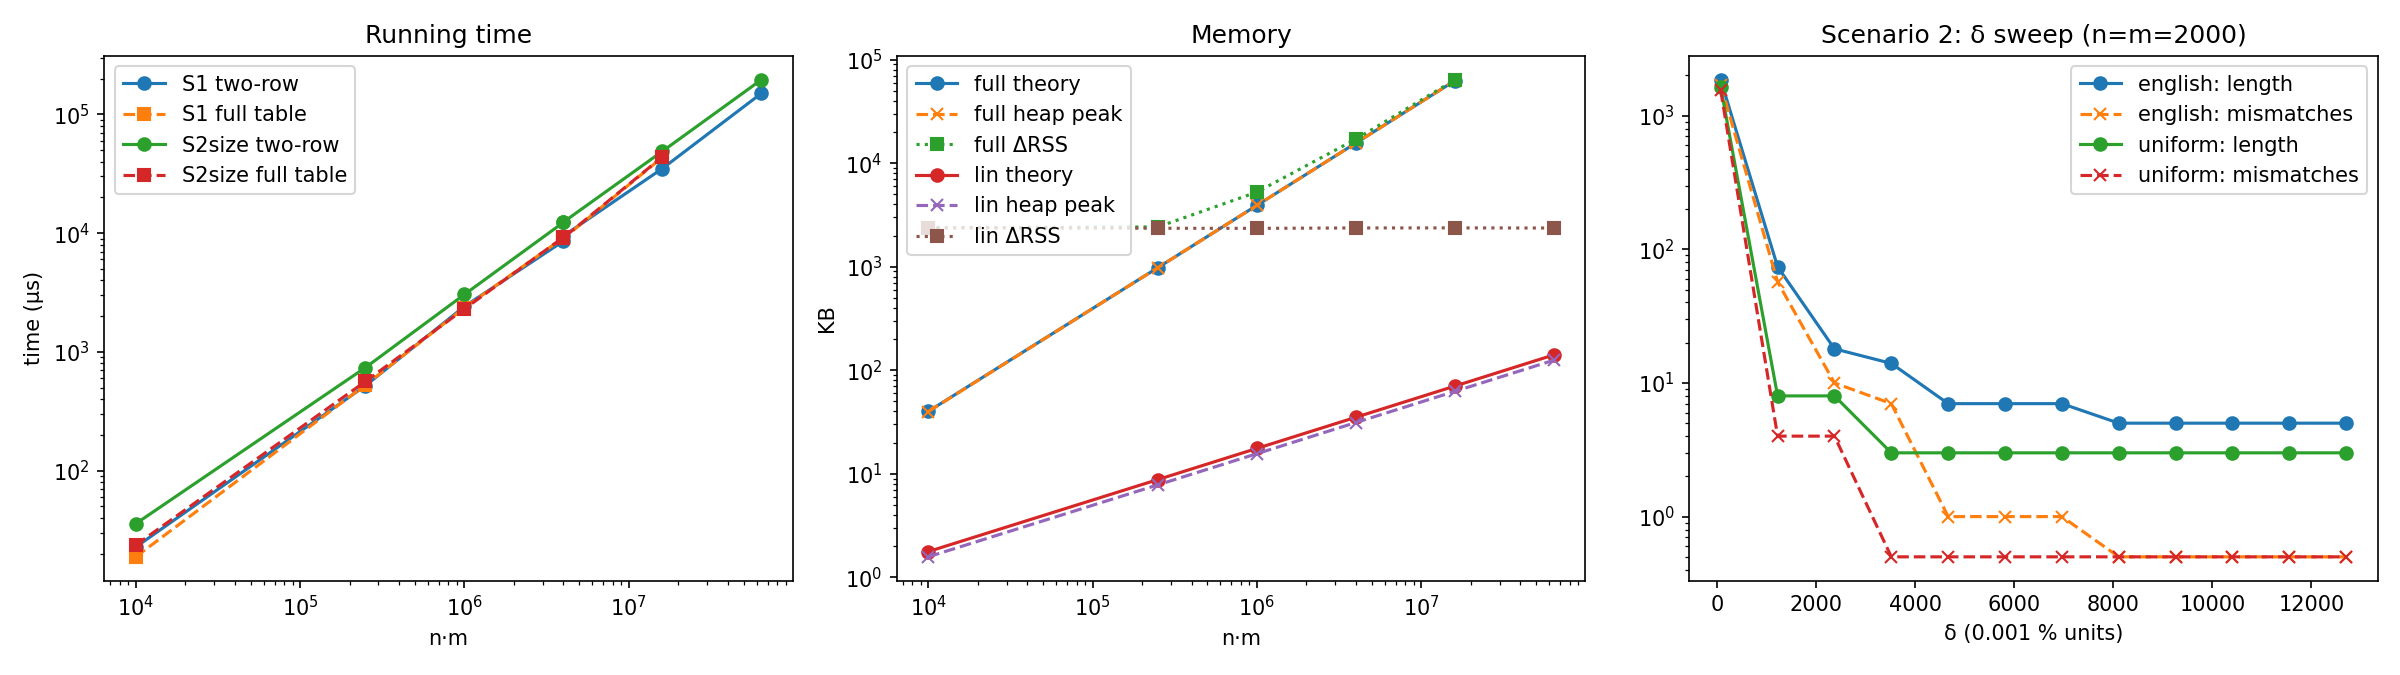
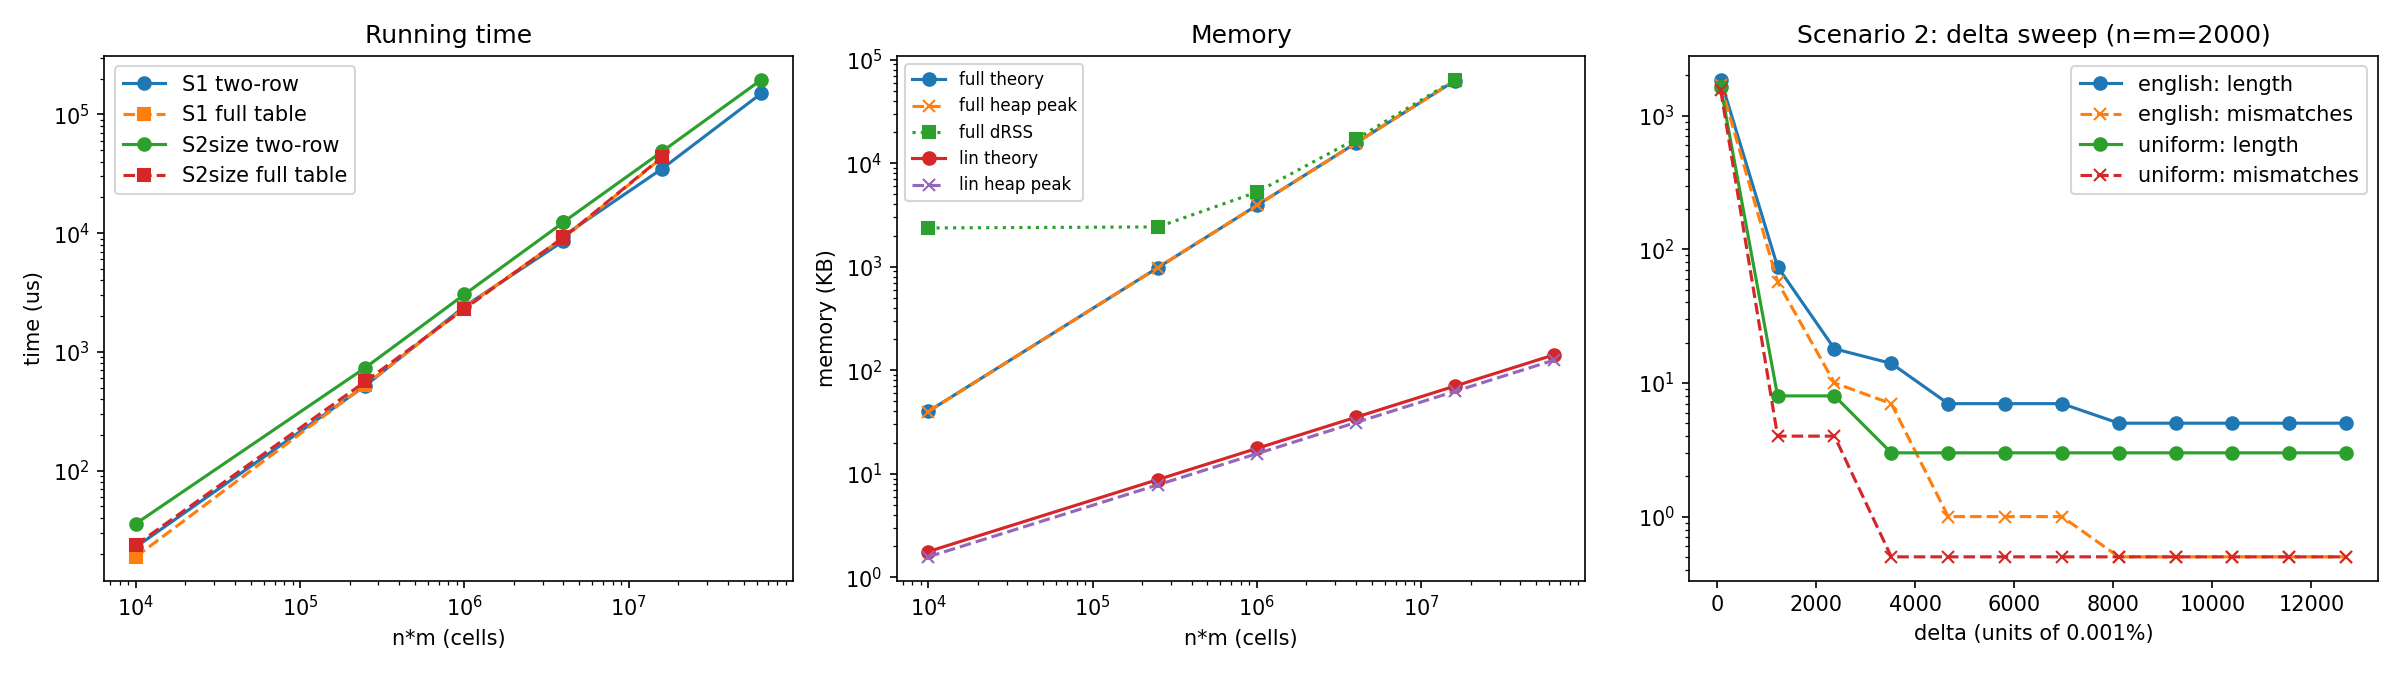
Revise report

diff --git a/problem1.cpp b/problem1.cpp
@@ -1,14 +1,19 @@
-// problem2.cpp  —  Largest all-zero square sub-matrix (iterative DP)
-// Build:  g++ -O2 -std=c++17 problem2.cpp -o p2
-// Run all experiments:   ./p2 > results_p2.csv
-// Single run (memory):   ./p2 <m> <n> <p>
+// problem1.cpp — Weighted approximate common substring (no gaps), iterative DP
+// Build:  g++ -O2 -std=c++17 problem1.cpp -o p1
+// Run all experiments:  ./p1 > results_p1.csv     (demo + self-test go to stderr)
+// Memory (one process per run):  ./p1 mem <n> <m> <full|lin>
+#include <array>
+#include <algorithm>
+#include <chrono>
+#include <climits>
+#include <cmath>
 #include <cstdint>
 #include <cstdio>
 #include <cstdlib>
-#include <vector>
+#include <cstring>
 #include <random>
-#include <chrono>
-#include <algorithm>
+#include <string>
+#include <vector>
 #if defined(__unix__) || defined(__APPLE__)
 #include <sys/resource.h>
 #endif
@@ -18,7 +23,7 @@
 #include <fstream>
 #include <unistd.h>
 static std::size_t g_heapCur = 0, g_heapPeak = 0;
-// Count every heap allocation (std::vector uses this)
+// Count every heap allocation (std::vector, std::string use this)
 void* operator new(std::size_t sz) {
     void* p = std::malloc(sz + 16);
     if (!p) throw std::bad_alloc();
@@ -42,138 +47,243 @@ long currentRssKB() {   // Linux: resident memory RIGHT NOW (not the historical 
     return res * (sysconf(_SC_PAGESIZE) / 1024);
 }
 
-using Matrix = std::vector<uint8_t>;          // row-major, B[i*n + j], 1 byte per cell
 
-struct Result { int k; int row; int col; };    // side length + top-left corner
 
-// ---------- synthetic data: each cell is 1 with probability p ----------
-Matrix generate(int m, int n, double p, uint64_t seed) {
-    std::mt19937_64 rng(seed);
-    std::bernoulli_distribution one(p);
-    Matrix B((size_t)m * n);
-    for (size_t t = 0; t < B.size(); ++t) B[t] = one(rng) ? 1 : 0;
-    return B;
+using Weights = std::array<int, 26>;
+
+// Lewand English letter frequencies in units of 0.001 %  (E = 12.702 % -> 12702).
+// Integers keep w_l exactly proportional to frequency and all scores exact.
+const int FREQ[26] = {
+    8167, 1492, 2782, 4253, 12702, 2228, 2015, 6094, 6966, 153, 772, 4025, 2406,  // A-M
+    6749, 7507, 1929,   95,  5987, 6327, 9056, 2758,  978, 2360, 150, 1974,   74  // N-Z
+};
+
+struct Result {
+    int score;   // optimal score (0 = empty substring)
+    int s1, s2;  // 0-indexed start positions in X and Y
+    int len;     // common length of both substrings
+};
+
+inline int sc(char a, char b, const Weights& w, int delta) {
+    return a == b ? w[a - 'A'] : -delta;
 }
 
-// ---------- DP: D[i][j] = side of largest zero square with bottom-right (i,j) ----------
-// Only two rows of D are kept (O(n) extra space). Column 0 is a sentinel (= 0),
-// and the initial 'prev' row of zeros is the sentinel row above row 0.
-Result largestZeroSquare(const Matrix& B, int m, int n) {
-    std::vector<int> prev(n + 1, 0), cur(n + 1, 0);
-    int best = 0, bi = -1, bj = -1;
-    for (int i = 0; i < m; ++i) {
-        cur[0] = 0;
-        const uint8_t* row = &B[(size_t)i * n];
-        for (int j = 1; j <= n; ++j) {
-            if (row[j - 1]) {
-                cur[j] = 0;
-            } else {
-                cur[j] = 1 + std::min(prev[j], std::min(cur[j - 1], prev[j - 1]));
-                if (cur[j] > best) { best = cur[j]; bi = i; bj = j - 1; }
+// ---------------- DP with full table + traceback extraction ----------------
+// D[i][j] = best score of a pair of equal-length substrings ENDING at X[i-1], Y[j-1]
+// D[i][j] = max(0, D[i-1][j-1] + s(X[i-1], Y[j-1])),  D[0][*] = D[*][0] = 0
+Result solveFull(const std::string& X, const std::string& Y, const Weights& w, int delta) {
+    const int n = (int)X.size(), m = (int)Y.size();
+    std::vector<int> D((size_t)(n + 1) * (m + 1), 0);
+    auto at = [&](int i, int j) -> int& { return D[(size_t)i * (m + 1) + j]; };
+    int best = 0, bi = 0, bj = 0;
+    for (int i = 1; i <= n; ++i)
+        for (int j = 1; j <= m; ++j) {
+            int v = at(i - 1, j - 1) + sc(X[i - 1], Y[j - 1], w, delta);
+            if (v < 0) v = 0;
+            at(i, j) = v;
+            if (v > best) { best = v; bi = i; bj = j; }
+        }
+    // Extraction: walk back along the diagonal while D > 0 (iterative, no recursion)
+    int len = 0, i = bi, j = bj;
+    while (i > 0 && j > 0 && at(i, j) > 0) { ++len; --i; --j; }
+    return {best, bi - len, bj - len, len};
+}
+
+// ---------------- Space-optimized DP: two rows + run length ----------------
+// L[j] = length of the run ending at (i,j); allows extraction without the full table.
+Result solveLinear(const std::string& X, const std::string& Y, const Weights& w, int delta) {
+    const int n = (int)X.size(), m = (int)Y.size();
+    std::vector<int> pD(m + 1, 0), cD(m + 1, 0), pL(m + 1, 0), cL(m + 1, 0);
+    int best = 0, bi = 0, bj = 0, blen = 0;
+    for (int i = 1; i <= n; ++i) {
+        cD[0] = 0; cL[0] = 0;
+        for (int j = 1; j <= m; ++j) {
+            int v = pD[j - 1] + sc(X[i - 1], Y[j - 1], w, delta);
+            if (v > 0) { cD[j] = v; cL[j] = pL[j - 1] + 1; }
+            else       { cD[j] = 0; cL[j] = 0; }
+            if (v > best) { best = v; bi = i; bj = j; blen = cL[j]; }
+        }
+        std::swap(pD, cD); std::swap(pL, cL);
+    }
+    return {best, bi - blen, bj - blen, blen};
+}
+
+// ---------------- Brute force O(n*m*min(n,m)) for verification ----------------
+Result bruteForce(const std::string& X, const std::string& Y, const Weights& w, int delta) {
+    Result r{0, 0, 0, 0};
+    const int n = (int)X.size(), m = (int)Y.size();
+    for (int a = 0; a < n; ++a)
+        for (int b = 0; b < m; ++b) {
+            int s = 0;
+            for (int L = 1; a + L <= n && b + L <= m; ++L) {
+                s += sc(X[a + L - 1], Y[b + L - 1], w, delta);
+                if (s > r.score) r = {s, a, b, L};
             }
         }
-        std::swap(prev, cur);                 // O(1) pointer swap
-    }
-    if (best == 0) return {0, -1, -1};
-    // Solution extraction: bottom-right (bi,bj) and side best -> top-left corner
-    return {best, bi - best + 1, bj - best + 1};
+    return r;
 }
 
-// ---------- independent verifier using 2D prefix sums ----------
-// (1) the reported square is inside B and all zeros, (2) no (k+1)x(k+1) zero square exists.
-bool verify(const Matrix& B, int m, int n, const Result& r) {
-    std::vector<int> S((size_t)(m + 1) * (n + 1), 0);
-    auto at = [&](int i, int j) -> int& { return S[(size_t)i * (n + 1) + j]; };
-    for (int i = 1; i <= m; ++i)
-        for (int j = 1; j <= n; ++j)
-            at(i, j) = B[(size_t)(i - 1) * n + (j - 1)] + at(i - 1, j) + at(i, j - 1) - at(i - 1, j - 1);
-    auto sum = [&](int r0, int c0, int k) {
-        return at(r0 + k, c0 + k) - at(r0, c0 + k) - at(r0 + k, c0) + at(r0, c0);
-    };
-    if (r.k > 0) {
-        if (r.row < 0 || r.col < 0 || r.row + r.k > m || r.col + r.k > n) return false;
-        if (sum(r.row, r.col, r.k) != 0) return false;
-    }
-    int K = r.k + 1;
-    if (K <= std::min(m, n))
-        for (int r0 = 0; r0 + K <= m; ++r0)
-            for (int c0 = 0; c0 + K <= n; ++c0)
-                if (sum(r0, c0, K) == 0) return false;
-    return true;
+int scoreOf(const std::string& X, const std::string& Y, int s1, int s2, int len,
+            const Weights& w, int delta) {
+    int s = 0;
+    for (int k = 0; k < len; ++k) s += sc(X[s1 + k], Y[s2 + k], w, delta);
+    return s;
+}
+int mismatches(const std::string& X, const std::string& Y, int s1, int s2, int len) {
+    int c = 0;
+    for (int k = 0; k < len; ++k) c += (X[s1 + k] != Y[s2 + k]);
+    return c;
 }
 
-// ---------- measurement helpers ----------
+// ---------------- Synthetic data ----------------
+std::string genAlpha(int n, int k, std::mt19937_64& rng) {      // uniform over first k letters
+    std::uniform_int_distribution<int> d(0, k - 1);
+    std::string s(n, 'A');
+    for (auto& c : s) c = char('A' + d(rng));
+    return s;
+}
+std::string genEnglish(int n, std::mt19937_64& rng) {           // English letter distribution
+    std::discrete_distribution<int> d(FREQ, FREQ + 26);
+    std::string s(n, 'A');
+    for (auto& c : s) c = char('A' + d(rng));
+    return s;
+}
+
+// ---------------- Scenarios ----------------
+Weights scenario1() { Weights w; w.fill(1); return w; }          // delta = 10
+Weights scenario2() { Weights w; for (int l = 0; l < 26; ++l) w[l] = FREQ[l]; return w; }
+int deltaS2(int t) {  // t = 0..11 ; t = 1..10 are the 10 intermediate values
+    const int wmin = *std::min_element(FREQ, FREQ + 26), wmax = *std::max_element(FREQ, FREQ + 26);
+    return (int)std::lround(wmin + t * (wmax - wmin) / 11.0);
+}
+
+// ---------------- Measurement ----------------
+volatile int g_sink;
+template <class F>
+double timeIt(F f) {                       // avg microseconds; >= 200 ms total and >= 3 reps
+    using clk = std::chrono::steady_clock;
+    f();                                   // warm-up
+    int reps = 0; double total = 0;
+    auto start = clk::now();
+    do { f(); ++reps; total = std::chrono::duration<double, std::micro>(clk::now() - start).count(); }
+    while (total < 200000.0 || reps < 3);
+    return total / reps;
+}
 long peakRssKB() {
 #if defined(__APPLE__)
-    struct rusage ru; getrusage(RUSAGE_SELF, &ru); return ru.ru_maxrss / 1024;  // bytes on macOS
+    struct rusage ru; getrusage(RUSAGE_SELF, &ru); return ru.ru_maxrss / 1024;
 #elif defined(__unix__)
-    struct rusage ru; getrusage(RUSAGE_SELF, &ru); return ru.ru_maxrss;         // KB on Linux
+    struct rusage ru; getrusage(RUSAGE_SELF, &ru); return ru.ru_maxrss;
 #else
     return -1;
 #endif
 }
-
-// Repeat until >= 200 ms total and >= 5 reps, return average microseconds per run
-double timeIt(const Matrix& B, int m, int n, Result& out, int& reps) {
-    using clk = std::chrono::steady_clock;
-    out = largestZeroSquare(B, m, n);          // warm-up (caches)
-    reps = 0;
-    double total = 0.0;
-    auto start = clk::now();
-    do {
-        out = largestZeroSquare(B, m, n);
-        ++reps;
-        total = std::chrono::duration<double, std::micro>(clk::now() - start).count();
-    } while (total < 200000.0 || reps < 5);
-    return total / reps;
+size_t theoryFull(int n, int m) { return (size_t)(n + 1) * (m + 1) * sizeof(int) + n + m; }
+size_t theoryLin(int n, int m)  { return 4 * (size_t)(m + 1) * sizeof(int) + n + m; }
+std::string show(const std::string& s, int st, int len) {
+    if (len == 0) return "-";
+    return len <= 30 ? s.substr(st, len) : s.substr(st, 30) + "...";
 }
 
-void runOne(int m, int n, double p, uint64_t seed) {
-    long rssBefore = currentRssKB();
-    std::size_t heapBase = g_heapCur; resetHeapPeak();
-    Matrix B = generate(m, n, p, seed);
-    Result r; int reps;
-    double us = timeIt(B, m, n, r, reps);
-    std::size_t heapPeak = g_heapPeak - heapBase;      // B + two DP rows
-    long rssAfter = currentRssKB();
-    size_t theory = (size_t)m * n * sizeof(uint8_t) + 2 * (size_t)(n + 1) * sizeof(int);
-    bool ok = verify(B, m, n, r);
-    std::printf("%d,%d,%.3f,%d,%d,%d,%.3f,%d,%zu,%zu,%ld,%ld,%s\n",
-                m, n, p, r.k, r.row, r.col, us, reps, theory, heapPeak,
-                rssBefore, rssAfter, ok ? "yes" : "NO");
-}
-
-// ---------- hand-made test with known answer (k=3, top-left (0,1)) ----------
-void demo() {
-    const int m = 5, n = 6;
-    Matrix B = { 1,0,0,0,1,0,
-                 0,0,0,0,1,0,
-                 1,0,0,0,0,1,
-                 0,1,0,0,0,0,
-                 0,0,1,0,0,1 };
-    Result r = largestZeroSquare(B, m, n);
-    std::fprintf(stderr, "[demo] k=%d top-left=(%d,%d) verified=%s\n",
-                 r.k, r.row, r.col, verify(B, m, n, r) ? "yes" : "NO");
-    for (int i = r.row; i < r.row + r.k; ++i) {
-        std::fprintf(stderr, "       ");
-        for (int j = r.col; j < r.col + r.k; ++j) std::fprintf(stderr, "%d ", B[i * n + j]);
-        std::fprintf(stderr, "\n");
+void runCase(const char* exp, const char* dist, const std::string& X, const std::string& Y,
+             const Weights& w, int delta, int t) {
+    const int n = (int)X.size(), m = (int)Y.size();
+    if ((long long)*std::max_element(w.begin(), w.end()) * std::min(n, m) > INT_MAX) {
+        std::fprintf(stderr, "score could overflow int\n"); std::exit(1);
     }
+    const bool doFull = (size_t)n * m <= 16000000ULL;            // full table <= 64 MB
+    Result r = solveLinear(X, Y, w, delta);
+    double tL = timeIt([&] { g_sink = solveLinear(X, Y, w, delta).score; });
+    double tF = -1; bool same = true;
+    if (doFull) {
+        Result f = solveFull(X, Y, w, delta);
+        same = f.score == r.score && f.s1 == r.s1 && f.s2 == r.s2 && f.len == r.len;
+        tF = timeIt([&] { g_sink = solveFull(X, Y, w, delta).score; });
+    }
+    bool ok = scoreOf(X, Y, r.s1, r.s2, r.len, w, delta) == r.score;
+    std::printf("%s,%s,%d,%d,%d,%d,%d,%d,%d,%d,%d,%.2f,%.2f,%zu,%zu,%s,%s,%s,%s\n",
+                exp, dist, n, m, delta, t, r.score, r.len,
+                r.len ? r.s1 + 1 : 0, r.len ? r.s2 + 1 : 0,           // 1-indexed like the handout
+                mismatches(X, Y, r.s1, r.s2, r.len), tF, tL,
+                doFull ? theoryFull(n, m) : 0, theoryLin(n, m),
+                doFull ? (same ? "yes" : "NO") : "n/a", ok ? "yes" : "NO",
+                show(X, r.s1, r.len).c_str(), show(Y, r.s2, r.len).c_str());
+}
+
+// ---------------- Correctness checks ----------------
+void demo() {
+    const std::string X = "ABCAABCAA", Y = "ABBCAACCBBBBBB";
+    Weights w2 = scenario2(); int d = deltaS2(5);
+    std::fprintf(stderr, "[demo] handout alignment %s / %s : 2*w_C + 2*w_A - delta = 2*%d + 2*%d - %d = %d\n",
+                 X.substr(2, 5).c_str(), Y.substr(3, 5).c_str(), w2['C' - 'A'], w2['A' - 'A'], d,
+                 scoreOf(X, Y, 2, 3, 5, w2, d));
+    Result a = solveFull(X, Y, scenario1(), 10), b = solveFull(X, Y, w2, d);
+    std::fprintf(stderr, "[demo] Scenario 1 optimum: score=%d  %s (pos %d) / %s (pos %d)\n",
+                 a.score, X.substr(a.s1, a.len).c_str(), a.s1 + 1, Y.substr(a.s2, a.len).c_str(), a.s2 + 1);
+    std::fprintf(stderr, "[demo] Scenario 2 (delta=%d) optimum: score=%d  %s (pos %d) / %s (pos %d)\n",
+                 d, b.score, X.substr(b.s1, b.len).c_str(), b.s1 + 1, Y.substr(b.s2, b.len).c_str(), b.s2 + 1);
+}
+bool selfTest() {
+    std::mt19937_64 rng(7);
+    int fails = 0;
+    for (int it = 0; it < 500; ++it) {
+        int n = 1 + (int)(rng() % 60), m = 1 + (int)(rng() % 60);
+        bool smallAlpha = it % 2;                          // 3-letter alphabet -> long runs w/ mismatches
+        std::string X = smallAlpha ? genAlpha(n, 3, rng) : genEnglish(n, rng);
+        std::string Y = smallAlpha ? genAlpha(m, 3, rng) : genEnglish(m, rng);
+        Weights w; int delta;
+        if (it % 4 < 2) { w = scenario1(); delta = 10; }
+        else            { w = scenario2(); delta = deltaS2((int)(rng() % 12)); }
+        Result b = bruteForce(X, Y, w, delta), f = solveFull(X, Y, w, delta), l = solveLinear(X, Y, w, delta);
+        bool ok = b.score == f.score && f.score == l.score && f.s1 == l.s1 && f.s2 == l.s2 &&
+                  f.len == l.len && scoreOf(X, Y, f.s1, f.s2, f.len, w, delta) == f.score;
+        if (!ok) ++fails;
+    }
+    std::fprintf(stderr, "[self-test] 500 random cases vs brute force: %s (%d failures)\n",
+                 fails ? "FAILED" : "all passed", fails);
+    return fails == 0;
 }
 
 int main(int argc, char** argv) {
-    if (argc == 4) {                           // single run -> clean per-process memory
-        runOne(std::atoi(argv[1]), std::atoi(argv[2]), std::atof(argv[3]), 20261103ULL);
+    if (argc == 5 && std::strcmp(argv[1], "mem") == 0) {
+        int n = std::atoi(argv[2]), m = std::atoi(argv[3]);
+        bool full = std::strcmp(argv[4], "full") == 0;
+        std::mt19937_64 rng(1);
+        std::string X = genEnglish(n, rng), Y = genEnglish(m, rng);
+        long rssBefore = currentRssKB();
+        std::size_t heapBase = g_heapCur; resetHeapPeak();
+        g_sink = full ? solveFull(X, Y, scenario1(), 10).score
+                      : solveLinear(X, Y, scenario1(), 10).score;
+        std::size_t heapPeak = g_heapPeak - heapBase;  // DP arrays only
+        long rssPeak = peakRssKB();
+        std::printf("%d,%d,%s,%zu,%zu,%ld,%ld\n", n, m, argv[4],
+                    full ? theoryFull(n, m) : theoryLin(n, m), heapPeak, rssBefore, rssPeak);
         return 0;
     }
-    demo();                                    // goes to stderr, CSV stays clean
-    std::printf("m,n,p,k,top_row,top_col,avg_time_us,reps,theory_bytes,heap_peak_bytes,"
-                "rss_before_kb,rss_after_kb,verified\n");
-    const int sizes[5][2] = {{10,10},{10,100},{10,1000},{100,1000},{1000,1000}};
-    const double dens[3] = {0.5, 0.1, 0.01};
-    uint64_t seed = 20261103ULL;
-    for (auto& s : sizes)
-        for (double p : dens)
-            runOne(s[0], s[1], p, seed++);
+
+    demo();
+    if (!selfTest()) return 1;
+    std::printf("experiment,dist,n,m,delta,t,score,len,start1,start2,mismatches,"
+                "time_full_us,time_lin_us,theory_full_bytes,theory_lin_bytes,full_eq_lin,score_ok,sub1,sub2\n");
+    std::mt19937_64 rng(20261103ULL);
+    const int sizes[][2] = {{100,100},{500,500},{1000,1000},{2000,2000},{4000,4000},{1000,4000},{8000,8000}};
+    const char* dn[2] = {"uniform", "english"};
+    auto gen = [&](int n, int d) { return d ? genEnglish(n, rng) : genAlpha(n, 26, rng); };
+
+    // Exp 1: Scenario 1 (w=1, delta=10) — running time vs size
+    for (auto& s : sizes) for (int d = 0; d < 2; ++d) {
+        std::string X = gen(s[0], d), Y = gen(s[1], d);
+        runCase("S1", dn[d], X, Y, scenario1(), 10, -1);
+    }
+    // Exp 2: Scenario 2 — delta sweep on fixed strings (t=1..10 intermediate, 0/11 endpoints)
+    for (int d = 0; d < 2; ++d) {
+        std::string X = gen(2000, d), Y = gen(2000, d);
+        for (int t = 0; t <= 11; ++t) runCase("S2sweep", dn[d], X, Y, scenario2(), deltaS2(t), t);
+    }
+    // Exp 3: Scenario 2 — running time vs size at middle delta (t=5)
+    for (auto& s : sizes) for (int d = 0; d < 2; ++d) {
+        std::string X = gen(s[0], d), Y = gen(s[1], d);
+        runCase("S2size", dn[d], X, Y, scenario2(), deltaS2(5), 5);
+    }
     return 0;
 }

diff --git a/README.md b/README.md
@@ -261,7 +261,7 @@ We record `k*` and the corner `(i*, j*)` where it first occurs. The answer is ro
 
 ### 2.7 Implementation and validation
 
-`largestZeroSquare` is the iterative two-row DP. `verify` is an independent checker built on 2D prefix sums. It confirms that (1) the reported square lies inside B and is all zeros, and (2) no (k+1) × (k+1) all-zero square exists anywhere in B, which proves optimality. Every experiment passed verification. A hand-made 5 × 6 test with known answer k = 3 at top-left (0, 1) also passed.
+`largestZeroSquare` is the iterative two-row DP. `verify` is an independent checker built on 2D prefix sums. It confirms that (1) the reported square lies inside B and is all zeros, and (2) no (k+1) × (k+1) all-zero square exists anywhere in B, which proves optimality. Every experiment passed verification. A hand-made 5 × 6 test with known answer k = 3 at top-left (0, 1) (0-indexed) also passed.
 
 ### 2.8 Experimental setup
 
